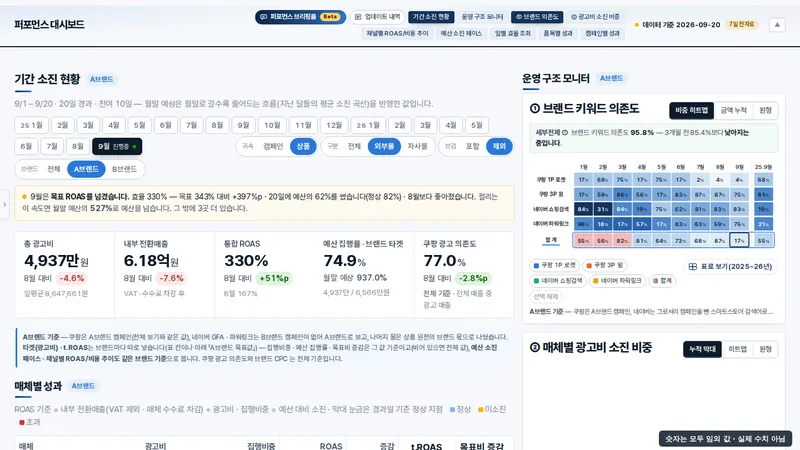
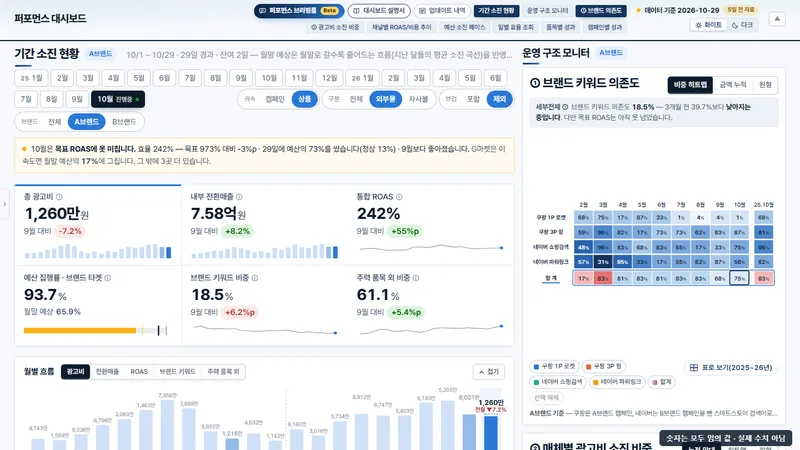
대시보드 썸네일 다시 찍기 — 09-20 옛 계수 데모 화면 → 지금 공개 데모(데이터 10-29 · 새 계수)
옛 썸네일 숫자는 옛 계수(0.4137)로 역산될 수 있었다(프리랜서판 세션 발견).
CLAUDE.md 5-1 찍는 법을 지금 데모에 맞춤(메뉴 접기 · 위 83px · 품질 82). 800×450 · 43KB 그대로.
점검: demo-wash 8줄 · check-numbers ✗0 · site-gate 6화면 통과.

diff --git a/CLAUDE.md b/CLAUDE.md
@@ -109,7 +109,7 @@
 | `assets/og-card.png` | `index.html` `<head>` | 카카오톡 · 슬랙 · 메일에 뜨는 링크 미리보기 카드(1200×630) | **경력 개월수가 그림 안에 박혀 있다.** 다시 만드는 법은 원본 폴더 `C:\Users\wns82\박성준_웹이력서\_work\og-card\만들기.txt`(이 저장소 밖 작업 폴더). 지금 공개 구성(직무명 「그로스 마케터 · MD × 퍼포먼스」)의 원본은 같은 폴더 `_public_20261017\og.html` — 폴더의 `og.html` 은 새 직무명 초안이다. 카드 숫자는 핵심 성과(kpis)와 같게, `og:image:alt` 도 카드 글자와 맞춘다 |
 | 첫 화면 칸 높이 맞춤 | `style.css` 맨 아래 3분할 블록 · `app.js` `boardH()` | 넓은 화면(≥1101px)에서 오른쪽 리포트 칸이 창 높이를 채우고, 차트는 칸의 남은 높이에 맞춰 다시 그려진다 | 칸에 줄을 더하면 차트가 그만큼 낮아진다. 네 갈래 · 1280×720 에서 차트가 80px 아래로 내려가지 않는지 본다 |
 | 대시보드 절 한 화면 맞춤 (2026-09-30) | `style.css` 맨 아래 「대시보드 쇼케이스도 첫 화면처럼」 블록 · `app.js` `renderShowcase()` 의 `howEnd` | 가로 861px 이상에서 `#dash` 높이를 「창 높이 − 상단 바」(380~940px)로 고정 — 125% 배율 노트북(1366×768 → 창 약 1093×520)도 포함. 글자 · 버튼 · 여백은 창 높이(vh)에 맞춰 줄어든다. 축소판은 남는 높이를 채우고, 오른쪽 「구축 내용」(`how`) 목록만 칸 안에서 스크롤(끝까지 내리면 아래 흐림이 사라짐). 창이 아주 낮으면 오른쪽 칸 전체가 스크롤 | `how` 항목을 늘려도 절은 길어지지 않고 스크롤만 길어진다. 소개 · 버튼 · 숫자 3칸을 늘리면 목록 칸이 줄어드니 1093×520 · 1280×640 에서 목록이 2줄 이상 보이는지 본다. 휴대폰(≤860px) · 인쇄는 예전 그대로 |
-| `assets/dash-poster.webp` | `data.js` `board`(dash 칸) · 대시보드 절 배경 · 인쇄 | 대시보드 데모(임의 값 화면)를 찍은 썸네일(800×450, 42KB — 2026-10 실측) | **데모 화면을 크게 바꾸면 다시 찍는다**: `dashboard-demo.html?video&explore` 를 1440×900 으로 열어 위 82px(데모 안내 띠)를 잘라 800×450 WebP. 실제 대시보드 화면을 찍지 않는다 |
+| `assets/dash-poster.webp` | `data.js` `board`(dash 칸) · 대시보드 절 배경 · 인쇄 | 대시보드 데모(임의 값 화면)를 찍은 썸네일(800×450, 43KB — 2026-11-03 다시 찍음: 데이터 10-29 · 새 계수 데모. 그 전 판은 09-20 옛 계수(0.4137) 화면이라 숫자가 역산될 수 있었다) | **데모 화면이나 가림 계수를 크게 바꾸면 다시 찍는다**: `dashboard-demo.html?video&explore` 를 1440×900 으로 열어 왼쪽 메뉴를 접고(`#erpFold`) 위 83px(안내 띠 48px + 탭 줄)부터 1440×810 을 잘라 800×450 WebP(품질 82). 오른쪽 아래 「숫자는 모두 임의 값」 배지가 들어오게. 실제 대시보드 화면을 찍지 않는다 |
 | 데모 본체 늦게 받기 | `app.js` `renderShowcase()` | 페이지 로드가 끝난 뒤, 대시보드 절이 200px 앞에 올 때만 데모(약 3MB)를 받는다. 그 전엔 썸네일이 대신 보인다. **폭 600px 이하 · 데이터 절약 모드에서는 저절로 받지 않고**(2026-10-11) 「크게 보기」 · 「축소판」 · 「영상으로 보기」를 누를 때 받는다 | 여유를 늘리면 첫 로드에 3MB 가 다시 끼어든다(1280×800 에서 700px 여유일 때 그랬다). 휴대폰(390px)에서 끝까지 내려도 Network 에 `dashboard-demo.html` 이 없어야 한다. 축소판(`tourSrc`)과 크게 보기(`demo`)는 같은 주소 `dashboard-demo.html?video&explore` 로 둔다 — 주소가 다르면 3MB 를 두 번 받는다(2026-10-17) |
 | `.mast.tight` | `app.js` `setMastH()` | 넓은 화면인데 상단 바가 두 줄로 접히면(맑은 고딕 등 폭 넓은 글꼴) 꼬리표 · 테마 글자를 숨겨 한 줄로 | 메뉴를 늘리면 1101px 에서 한 줄인지 본다 |
 | 인쇄 전 이미지 받기 | `app.js` `printAll()` · `beforeprint` | 「요약 PDF」 · 「전체 PDF」를 누르면 지연 로딩 이미지를 먼저 받고(최대 2.5초) 인쇄 창을 연다 | 없으면 맨 위에서 바로 누를 때 참고 자료 이미지가 빈 칸으로 찍혔다 |
@@ -179,5 +179,5 @@ v136 자동 동기화(`_work/sync/sync-demo.js`)가 앞서 가려 둔 품목 · 
 - 그래서 인쇄에 찍히는 사진은 JPEG 를 쓴다: `assets/profile.jpg`(450×600, 33KB — `data.js` `photo` · `en.html`). `profile.webp` 는 복구킷 `점검.ps1` 이 찾는 파일이라 지우지 않고 둔다.
 - 참고 자료는 목록 칸만 같은 이름의 JPEG 사본(`archive/*.jpg`, q80)을 쓰고, 크게 보기는 원본 WebP 그대로다(`app.js` `renderArchive`). 새 이미지를 넣으면 JPEG 사본도 같이 만든다(없으면 원본 WebP 로 되돌아가 PDF 가 커진다).
 - 크롬은 인쇄할 때 `<picture>` 의 `media="print"` 소스를 쓰지 않는다(실측) — 인쇄 전용 이미지로 우회할 수 없다.
-- `dash-poster.webp`(42KB)는 PDF 에서 약 0.3MB 로 풀리지만, JPEG 로 바꾸면 첫 화면 로드가 약 28KB 늘어 그대로 뒀다.
+- `dash-poster.webp`(43KB)는 PDF 에서 약 0.3MB 로 풀리지만, JPEG 로 바꾸면 첫 화면 로드가 약 28KB 늘어 그대로 뒀다.
 - 남은 용량의 대부분은 글꼴이다 — Noto Sans KR · Bahnschrift 가 가변 글꼴이라 글자가 그림(Type3)으로 들어간다. 인쇄 글꼴을 맑은 고딕으로 바꾸면 요약 PDF 가 약 0.7MB 더 준다(모양이 달라져 적용 안 함).
